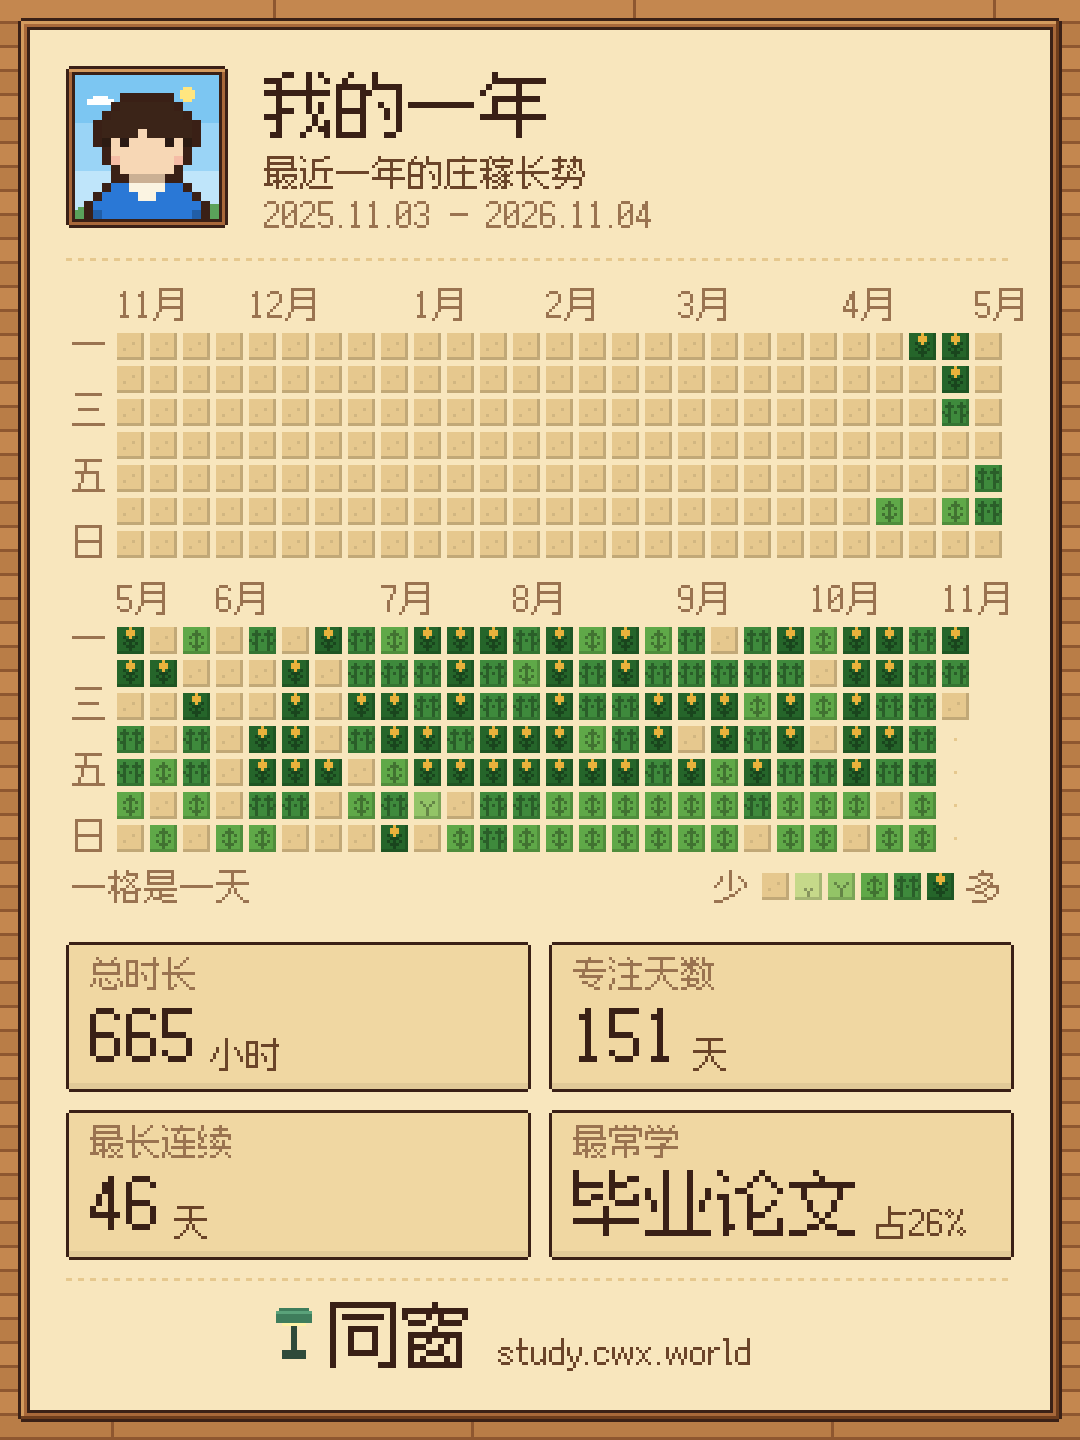
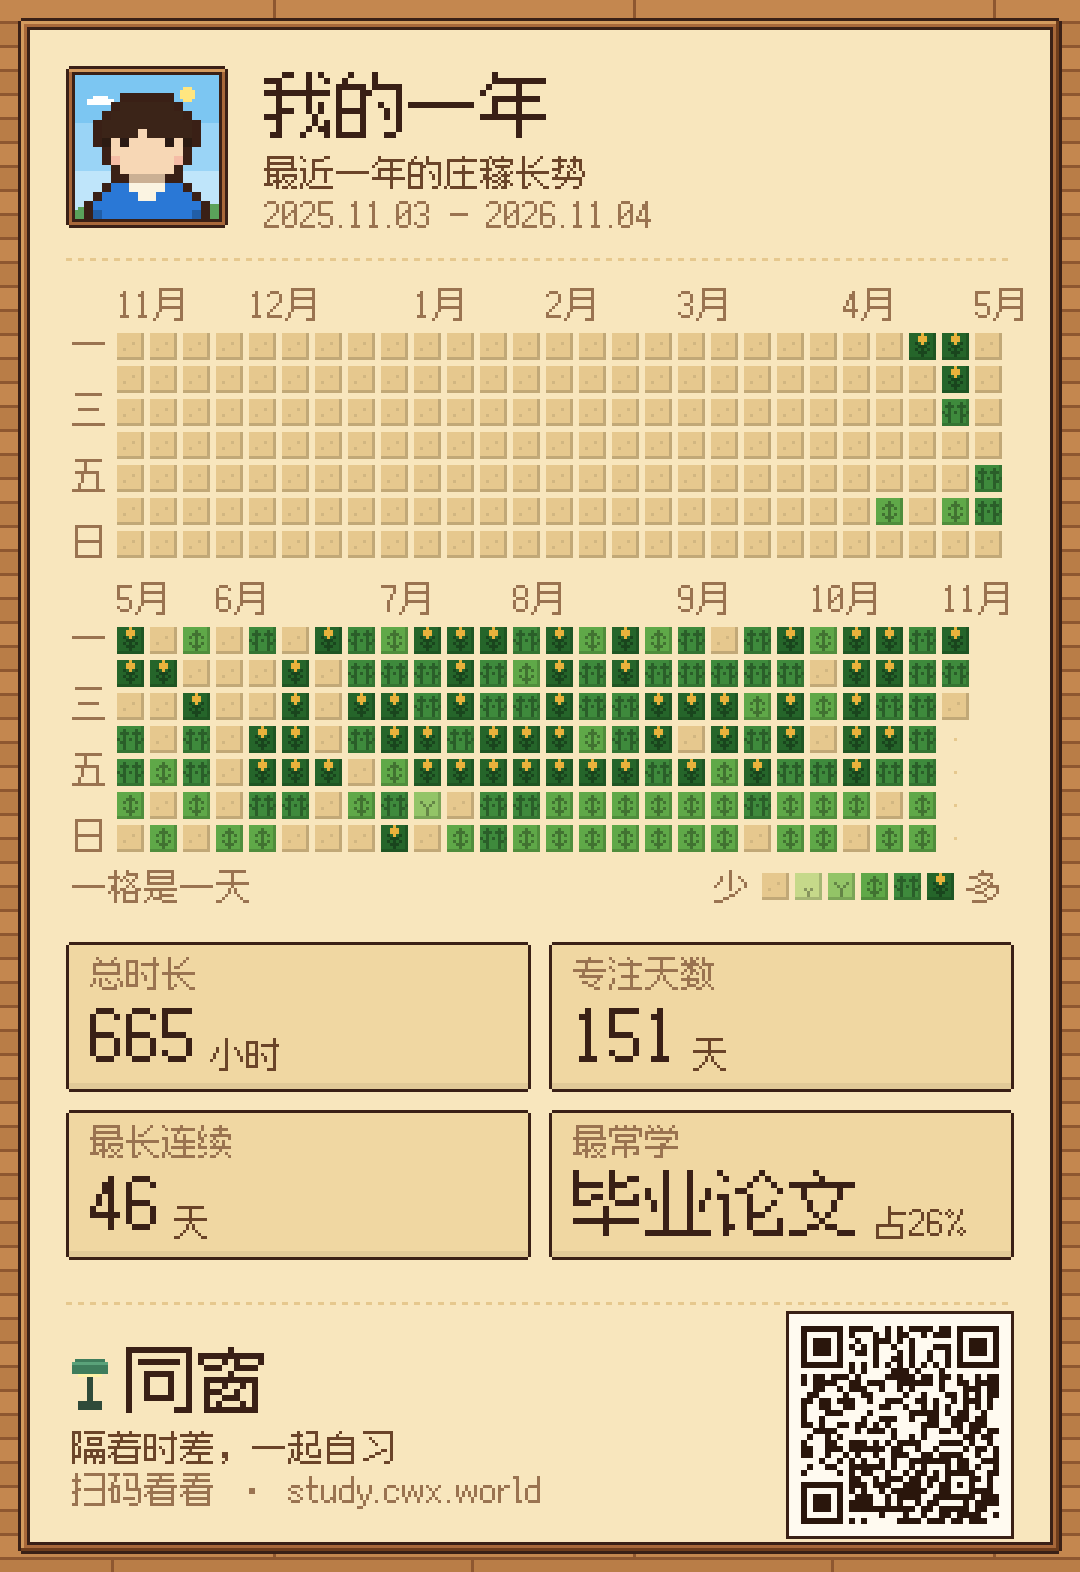
R-022 分享图公用底部条与二维码
- 新增 lib/shareKit.ts：调色板、硬边像素字、木框、天空、logo、renderPixelPng，以及带二维码的 drawShareFooter
- 二维码指向 study.cwx.world/release?from=<来源>，深色码浅色底、每模块 2 像素（导出后 6 像素），缩到一半宽仍能识别
- 一年热力图分享图改用公用底部条
- 依赖：qrcode-generator 2.0.4（MIT）

Claude-Session: https://claude.ai/code/session_01XAwhtzSpAW6CvCXUzTFnq7

diff --git a/lib/shareKit.ts b/lib/shareKit.ts
@@ -1,0 +1,207 @@
+/**
+ * 分享图公用的画法（R-011 / R-020 / R-021 / R-022）：调色板、硬边像素字、木框、小块、天空、台灯 logo、
+ * 带二维码的底部条，以及“小画布画好 → 整数倍放大 → PNG”。
+ * Everything is drawn at a small native resolution, text included (binarised so no anti-aliasing
+ * survives), then scaled up by a whole number so every pixel stays sharp.
+ */
+import qrcode from "qrcode-generator";
+import { shade } from "./pixel";
+
+export type CardTheme = "light" | "dark";
+
+/* ─────────── palettes (mirror the tokens in app/globals.css) ─────────── */
+export const PAL = {
+  light: {
+    floorA: "#c4874f", floorB: "#b97d47", seam: "#8e5730",
+    panel: "#f8e6bd", panel2: "#f0d7a2", slot: "#e6c88e",
+    ink: "#3a2016", ink2: "#6b4429", ink3: "#9a7350",
+    wood: "#a8683a", woodHi: "#d39a5e", woodDk: "#6e3d1d", edge: "#3a2016", onWood: "#fff1d2",
+    q: ["#e6c88e", "#c6d98a", "#93c467", "#5fa848", "#3e8a3c", "#25652a"],
+    sprout: -0.32, grain: "#e9b23c",
+    sky: ["#7cc6f2", "#9ad4f6", "#bfe5fa"], hill: "#5aa25a", night: false,
+  },
+  dark: {
+    floorA: "#2b1d14", floorB: "#261a11", seam: "#1a110b",
+    panel: "#33261c", panel2: "#3d2e22", slot: "#4a3828",
+    ink: "#f6e7c8", ink2: "#d8bf96", ink3: "#a8885f",
+    wood: "#5e3a20", woodHi: "#8a5a34", woodDk: "#2a1a10", edge: "#120b07", onWood: "#ffeccc",
+    q: ["#4a3828", "#3c5a2c", "#4f7a35", "#64983f", "#84b852", "#b5d97a"],
+    sprout: 0.3, grain: "#f5c75a",
+    sky: ["#0f1533", "#172049", "#202c61"], hill: "#18304a", night: true,
+  },
+};
+export type Pal = (typeof PAL)["light"];
+
+/* ─────────── pixel text ─────────── */
+export const FAMILY = '"Fusion Pixel 12px Proportional Simplified Chinese"';
+export const FONT = `12px ${FAMILY}, "Zpix", monospace`;
+
+/** make sure the unicode-range slices for every glyph on the card are loaded before drawing */
+export async function ensureCardFont(text: string) {
+  const fonts = typeof document !== "undefined" ? document.fonts : undefined;
+  if (!fonts) return;
+  try {
+    await fonts.load(`12px ${FAMILY}`, text);
+    await fonts.ready;
+  } catch { /* fall back to whatever is available */ }
+}
+
+let measurer: CanvasRenderingContext2D | null = null;
+/** call after fonts finish loading so widths are measured with the real font */
+export function resetMeasure() { measurer = null; }
+function mctx() {
+  if (!measurer) { measurer = document.createElement("canvas").getContext("2d")!; measurer.font = FONT; }
+  return measurer;
+}
+export const textW = (t: string) => Math.ceil(mctx().measureText(t).width);
+
+/** draws 12px text whose top-left is (x, y), thresholded to hard pixels, scaled by s; returns the width */
+export function text(ctx: CanvasRenderingContext2D, t: string, x: number, y: number, color: string, s = 1) {
+  if (!t) return 0;
+  const w = textW(t) + 2, h = 16;
+  const c = document.createElement("canvas");
+  c.width = w; c.height = h;
+  const g = c.getContext("2d")!;
+  g.font = FONT; g.textBaseline = "alphabetic"; g.fillStyle = "#000";
+  g.fillText(t, 0, 10);
+  const a = g.getImageData(0, 0, w, h).data;
+  ctx.fillStyle = color;
+  // glyph cell: 12px tall with the baseline at 10
+  for (let py = 0; py < h; py++) for (let px = 0; px < w; px++) {
+    if (a[(py * w + px) * 4 + 3] >= 110) ctx.fillRect(x + px * s, y + py * s, s, s);
+  }
+  return (w - 2) * s;
+}
+/** shorten to fit maxW (at scale s), adding … */
+export function fit(t: string, maxW: number, s = 1) {
+  if (textW(t) * s <= maxW) return t;
+  let out = t;
+  while (out.length > 1 && textW(out + "…") * s > maxW) out = out.slice(0, -1);
+  return out + "…";
+}
+
+/* ─────────── primitives ─────────── */
+export function rect(ctx: CanvasRenderingContext2D, x: number, y: number, w: number, h: number, c: string) { ctx.fillStyle = c; ctx.fillRect(x, y, w, h); }
+
+/** pixel frame like the app's cards: notched outline, bevelled wood rim, parchment fill */
+export function woodFrame(ctx: CanvasRenderingContext2D, x: number, y: number, w: number, h: number, p: Pal) {
+  rect(ctx, x + 1, y, w - 2, h, p.edge); rect(ctx, x, y + 1, w, h - 2, p.edge);
+  rect(ctx, x + 1, y + 1, w - 2, h - 2, p.wood);
+  rect(ctx, x + 1, y + 1, w - 2, 1, p.woodHi); rect(ctx, x + 1, y + 1, 1, h - 2, p.woodHi);
+  rect(ctx, x + 1, y + h - 2, w - 2, 1, p.woodDk); rect(ctx, x + w - 2, y + 1, 1, h - 2, p.woodDk);
+  rect(ctx, x + 3, y + 3, w - 6, h - 6, p.edge);
+}
+/** a small inset tile with notched corners */
+export function tile(ctx: CanvasRenderingContext2D, x: number, y: number, w: number, h: number, p: Pal) {
+  rect(ctx, x + 1, y, w - 2, h, p.edge); rect(ctx, x, y + 1, w, h - 2, p.edge);
+  rect(ctx, x + 1, y + 1, w - 2, h - 2, p.panel2);
+  rect(ctx, x + 1, y + h - 3, w - 2, 2, shade(p.panel2, p.night ? -0.25 : -0.06));
+}
+/** a wooden name tag (like the card headings in the app) */
+export function tag(ctx: CanvasRenderingContext2D, t: string, x: number, y: number, p: Pal) {
+  const w = textW(t) + 12, h = 16;
+  rect(ctx, x + 1, y, w - 2, h, p.edge); rect(ctx, x, y + 1, w, h - 2, p.edge);
+  rect(ctx, x + 1, y + 1, w - 2, h - 2, p.wood); rect(ctx, x + 1, y + 1, w - 2, 1, p.woodHi);
+  text(ctx, t, x + 6, y + 2, p.onWood);
+  return w;
+}
+
+export function sky(ctx: CanvasRenderingContext2D, x: number, y: number, w: number, h: number, p: Pal) {
+  const bh = Math.ceil(h / 3);
+  p.sky.forEach((c, i) => rect(ctx, x, y + i * bh, w, Math.min(bh, h - i * bh), c));
+  if (p.night) {
+    [[6, 5], [30, 3], [40, 12], [14, 15], [24, 9]].forEach(([sx, sy]) => rect(ctx, x + sx, y + sy, 1, 1, "#c9d3ff"));
+    rect(ctx, x + w - 12, y + 4, 4, 1, "#f6f0c8"); rect(ctx, x + w - 13, y + 5, 5, 3, "#f6f0c8"); rect(ctx, x + w - 12, y + 8, 4, 1, "#f6f0c8");
+    rect(ctx, x + w - 11, y + 5, 3, 3, p.sky[0]);
+  } else {
+    const sx = x + w - 13, sy = y + 4;
+    rect(ctx, sx + 1, sy, 3, 5, "#ffe680"); rect(ctx, sx, sy + 1, 5, 3, "#ffe680");
+    rect(ctx, x + 4, y + 8, 9, 2, "#ffffff"); rect(ctx, x + 6, y + 7, 5, 1, "#ffffff");
+  }
+  for (let i = 0; i < w; i++) {
+    const hh = 3 + Math.round(Math.sin(i / 3.2) * 1.5 + Math.sin(i / 7) * 1.5);
+    rect(ctx, x + i, y + h - hh, 1, hh, p.hill);
+  }
+}
+
+/** a tiny desk lamp, the app's mark */
+export function logo(ctx: CanvasRenderingContext2D, x: number, y: number, p: Pal) {
+  const shadeC = "#3f7d5c";
+  rect(ctx, x + 1, y, 10, 1, shadeC); rect(ctx, x, y + 1, 12, 4, shadeC); rect(ctx, x, y + 1, 12, 1, "#5aa27a");
+  rect(ctx, x + 2, y + 5, 8, 1, "#fff2a8");
+  rect(ctx, x + 5, y + 6, 2, 8, p.night ? "#5aa27a" : "#2f4a3a");
+  rect(ctx, x + 2, y + 14, 8, 3, p.night ? "#5aa27a" : "#2f4a3a");
+}
+
+/* ─────────── R-022: shared footer with a QR code to the product page ─────────── */
+
+/** where every share image points: the product page, tagged with which image brought the visitor */
+export const shareUrl = (from: string) => `https://study.cwx.world/release?from=${encodeURIComponent(from)}`;
+
+/** QR modules for `data` (true = dark), error correction M */
+export function qrMatrix(data: string): boolean[][] {
+  const q = qrcode(0, "M");
+  q.addData(data);
+  q.make();
+  const n = q.getModuleCount();
+  return Array.from({ length: n }, (_, r) => Array.from({ length: n }, (_, c) => q.isDark(r, c)));
+}
+
+/**
+ * draw a scannable QR code: dark modules on a light card, `quiet` modules of margin, `m` px per module.
+ * Always dark-on-light, also on the night theme — many phone scanners refuse inverted codes.
+ * returns the drawn size in px
+ */
+export function drawQr(ctx: CanvasRenderingContext2D, data: string, x: number, y: number, m = 1, quiet = 3) {
+  const mat = qrMatrix(data);
+  const size = (mat.length + quiet * 2) * m;
+  rect(ctx, x, y, size, size, "#fffaf0");
+  ctx.fillStyle = "#2a160c";
+  mat.forEach((row, r) => row.forEach((d, c) => { if (d) ctx.fillRect(x + (quiet + c) * m, y + (quiet + r) * m, m, m); }));
+  return size;
+}
+
+/** height of the shared footer at native resolution */
+export const FOOTER_H = 76;
+
+/**
+ * the footer every share image ends with: dotted rule, lamp logo, “同窗”, a one-line pitch, the site,
+ * and a QR code (right) that opens study.cwx.world/release?from=<from>.
+ * (x, y) is the top-left of the footer band, w its width. Characters used: see FOOTER_TEXT.
+ */
+export function drawShareFooter(ctx: CanvasRenderingContext2D, x: number, y: number, w: number, p: Pal, from: string) {
+  for (let i = x; i < x + w; i += 4) rect(ctx, i, y, 2, 1, p.slot);
+  const qx = x + w - 1, qy = y + 4;
+  // QR: 2 px per module at native size → 6 px per module in the ×3 export, so it still scans when the
+  // picture is shown small (a chat thumbnail, another phone's screen)
+  const mat = qrMatrix(shareUrl(from));
+  const qs = (mat.length + 4) * 2;
+  const qLeft = qx - qs;
+  rect(ctx, qLeft - 1, qy - 1, qs + 2, qs + 2, p.edge);
+  drawQr(ctx, shareUrl(from), qLeft, qy, 2, 2);
+  // brand block, vertically centred on the code
+  const cy = qy + Math.round(qs / 2);
+  logo(ctx, x + 2, cy - 22, p);
+  text(ctx, "同窗", x + 20, cy - 26, p.ink, 2);
+  text(ctx, "隔着时差，一起自习", x + 2, cy + 2, p.ink2);
+  text(ctx, "扫码看看 · study.cwx.world", x + 2, cy + 16, p.ink3);
+}
+/** glyphs the footer needs (pass to ensureCardFont together with the card's own text) */
+export const FOOTER_TEXT = "同窗隔着时差，一起自习扫码看看 · study.cwx.world";
+
+/** draw at native size with `draw`, then scale up by `scale` into a PNG (blob + data URL) */
+export async function renderPixelPng(w: number, h: number, scale: number, glyphs: string, draw: (ctx: CanvasRenderingContext2D) => void): Promise<{ blob: Blob; url: string }> {
+  await ensureCardFont(glyphs + FOOTER_TEXT);
+  resetMeasure();
+  const base = document.createElement("canvas");
+  base.width = w; base.height = h;
+  draw(base.getContext("2d")!);
+  const out = document.createElement("canvas");
+  out.width = w * scale; out.height = h * scale;
+  const o = out.getContext("2d")!;
+  o.imageSmoothingEnabled = false;
+  o.drawImage(base, 0, 0, out.width, out.height);
+  const url = out.toDataURL("image/png");
+  const blob = await new Promise<Blob>((res, rej) => out.toBlob((b) => (b ? res(b) : rej(new Error("toBlob failed"))), "image/png"));
+  return { blob, url };
+}

diff --git a/lib/shareCard.ts b/lib/shareCard.ts
@@ -7,13 +7,14 @@ import type { Session, Subject } from "./types";
 import { byDay, streaks, subjectTotals, touching, yearGrid } from "./stats";
 import { HOUR } from "./time";
 import { drawGrid, portrait, shade, type AvatarLook, type Grid } from "./pixel";
+import { drawShareFooter, FOOTER_H, PAL, renderPixelPng, sky, text, textW, fit, rect, tile, woodFrame, type CardTheme, type Pal } from "./shareKit";
+export type { CardTheme } from "./shareKit";
 
 export const CARD_W = 360;
-export const CARD_H = 480;
+export const CARD_H = 524;
 /** 360 x 3 = 1080 px wide output */
 export const CARD_SCALE = 3;
 
-export type CardTheme = "light" | "dark";
 type Cell = { key: string; ms: number; future: boolean };
 
 export interface ShareData {
@@ -48,104 +49,9 @@ export function shareData(o: { sessions: Session[]; subjects: Subject[]; tz: str
   };
 }
 
-/* ─────────── palettes (mirror the tokens in app/globals.css) ─────────── */
-const PAL = {
-  light: {
-    floorA: "#c4874f", floorB: "#b97d47", seam: "#8e5730",
-    panel: "#f8e6bd", panel2: "#f0d7a2", slot: "#e6c88e",
-    ink: "#3a2016", ink2: "#6b4429", ink3: "#9a7350",
-    wood: "#a8683a", woodHi: "#d39a5e", woodDk: "#6e3d1d", edge: "#3a2016", onWood: "#fff1d2",
-    q: ["#e6c88e", "#c6d98a", "#93c467", "#5fa848", "#3e8a3c", "#25652a"],
-    sprout: -0.32, grain: "#e9b23c",
-    sky: ["#7cc6f2", "#9ad4f6", "#bfe5fa"], hill: "#5aa25a", night: false,
-  },
-  dark: {
-    floorA: "#2b1d14", floorB: "#261a11", seam: "#1a110b",
-    panel: "#33261c", panel2: "#3d2e22", slot: "#4a3828",
-    ink: "#f6e7c8", ink2: "#d8bf96", ink3: "#a8885f",
-    wood: "#5e3a20", woodHi: "#8a5a34", woodDk: "#2a1a10", edge: "#120b07", onWood: "#ffeccc",
-    q: ["#4a3828", "#3c5a2c", "#4f7a35", "#64983f", "#84b852", "#b5d97a"],
-    sprout: 0.3, grain: "#f5c75a",
-    sky: ["#0f1533", "#172049", "#202c61"], hill: "#18304a", night: true,
-  },
-};
-type Pal = (typeof PAL)["light"];
-
 /** same thresholds as the heatmap on the stats page: 30 min / 1.5 h / 3 h / 5 h */
 const LEVELS = [0, 0.5 * HOUR, 1.5 * HOUR, 3 * HOUR, 5 * HOUR];
 const level = (ms: number) => (ms <= 0 ? 0 : LEVELS.filter((l) => ms >= l).length);
-
-/* ─────────── pixel text ─────────── */
-const FAMILY = '"Fusion Pixel 12px Proportional Simplified Chinese"';
-const FONT = `12px ${FAMILY}, "Zpix", monospace`;
-
-/** make sure the unicode-range slices for every glyph on the card are loaded before drawing */
-export async function ensureCardFont(text: string) {
-  const fonts = typeof document !== "undefined" ? document.fonts : undefined;
-  if (!fonts) return;
-  try {
-    await fonts.load(`12px ${FAMILY}`, text);
-    await fonts.ready;
-  } catch { /* fall back to whatever is available */ }
-}
-
-let measurer: CanvasRenderingContext2D | null = null;
-function mctx() {
-  if (!measurer) { measurer = document.createElement("canvas").getContext("2d")!; measurer.font = FONT; }
-  return measurer;
-}
-export const textW = (t: string) => Math.ceil(mctx().measureText(t).width);
-
-/** draws 12px text whose top-left is (x, y), thresholded to hard pixels, scaled by s; returns the width */
-function text(ctx: CanvasRenderingContext2D, t: string, x: number, y: number, color: string, s = 1) {
-  if (!t) return 0;
-  const w = textW(t) + 2, h = 16;
-  const c = document.createElement("canvas");
-  c.width = w; c.height = h;
-  const g = c.getContext("2d")!;
-  g.font = FONT; g.textBaseline = "alphabetic"; g.fillStyle = "#000";
-  g.fillText(t, 0, 10);
-  const a = g.getImageData(0, 0, w, h).data;
-  ctx.fillStyle = color;
-  // glyph cell: 12px tall with the baseline at 10
-  for (let py = 0; py < h; py++) for (let px = 0; px < w; px++) {
-    if (a[(py * w + px) * 4 + 3] >= 110) ctx.fillRect(x + px * s, y + py * s, s, s);
-  }
-  return (w - 2) * s;
-}
-/** shorten to fit maxW (at scale s), adding … */
-function fit(t: string, maxW: number, s = 1) {
-  if (textW(t) * s <= maxW) return t;
-  let out = t;
-  while (out.length > 1 && textW(out + "…") * s > maxW) out = out.slice(0, -1);
-  return out + "…";
-}
-
-/* ─────────── primitives ─────────── */
-function rect(ctx: CanvasRenderingContext2D, x: number, y: number, w: number, h: number, c: string) { ctx.fillStyle = c; ctx.fillRect(x, y, w, h); }
-
-/** pixel frame like the app's cards: notched outline, bevelled wood rim, parchment fill */
-function woodFrame(ctx: CanvasRenderingContext2D, x: number, y: number, w: number, h: number, p: Pal) {
-  rect(ctx, x + 1, y, w - 2, h, p.edge); rect(ctx, x, y + 1, w, h - 2, p.edge);
-  rect(ctx, x + 1, y + 1, w - 2, h - 2, p.wood);
-  rect(ctx, x + 1, y + 1, w - 2, 1, p.woodHi); rect(ctx, x + 1, y + 1, 1, h - 2, p.woodHi);
-  rect(ctx, x + 1, y + h - 2, w - 2, 1, p.woodDk); rect(ctx, x + w - 2, y + 1, 1, h - 2, p.woodDk);
-  rect(ctx, x + 3, y + 3, w - 6, h - 6, p.edge);
-}
-/** a small inset tile with notched corners */
-function tile(ctx: CanvasRenderingContext2D, x: number, y: number, w: number, h: number, p: Pal) {
-  rect(ctx, x + 1, y, w - 2, h, p.edge); rect(ctx, x, y + 1, w, h - 2, p.edge);
-  rect(ctx, x + 1, y + 1, w - 2, h - 2, p.panel2);
-  rect(ctx, x + 1, y + h - 3, w - 2, 2, shade(p.panel2, p.night ? -0.25 : -0.06));
-}
-/** a wooden name tag (like the card headings in the app) */
-function tag(ctx: CanvasRenderingContext2D, t: string, x: number, y: number, p: Pal) {
-  const w = textW(t) + 12, h = 16;
-  rect(ctx, x + 1, y, w - 2, h, p.edge); rect(ctx, x, y + 1, w, h - 2, p.edge);
-  rect(ctx, x + 1, y + 1, w - 2, h - 2, p.wood); rect(ctx, x + 1, y + 1, w - 2, 1, p.woodHi);
-  text(ctx, t, x + 6, y + 2, p.onWood);
-  return w;
-}
 
 /* crops growing in a heatmap cell, one sprite per level (9 x 9 cell) */
 const CROPS: string[][] = [
@@ -192,24 +98,6 @@ function heatBlock(ctx: CanvasRenderingContext2D, cols: Cell[][], allCols: Cell[
     if (d.future) { rect(ctx, cx + 4, cy + 4, 1, 1, p.slot); return; }
     cell(ctx, cx, cy, level(d.ms), p);
   }));
-}
-
-function sky(ctx: CanvasRenderingContext2D, x: number, y: number, w: number, h: number, p: Pal) {
-  const bh = Math.ceil(h / 3);
-  p.sky.forEach((c, i) => rect(ctx, x, y + i * bh, w, Math.min(bh, h - i * bh), c));
-  if (p.night) {
-    [[6, 5], [30, 3], [40, 12], [14, 15], [24, 9]].forEach(([sx, sy]) => rect(ctx, x + sx, y + sy, 1, 1, "#c9d3ff"));
-    rect(ctx, x + w - 12, y + 4, 4, 1, "#f6f0c8"); rect(ctx, x + w - 13, y + 5, 5, 3, "#f6f0c8"); rect(ctx, x + w - 12, y + 8, 4, 1, "#f6f0c8");
-    rect(ctx, x + w - 11, y + 5, 3, 3, p.sky[0]);
-  } else {
-    const sx = x + w - 13, sy = y + 4;
-    rect(ctx, sx + 1, sy, 3, 5, "#ffe680"); rect(ctx, sx, sy + 1, 5, 3, "#ffe680");
-    rect(ctx, x + 4, y + 8, 9, 2, "#ffffff"); rect(ctx, x + 6, y + 7, 5, 1, "#ffffff");
-  }
-  for (let i = 0; i < w; i++) {
-    const hh = 3 + Math.round(Math.sin(i / 3.2) * 1.5 + Math.sin(i / 7) * 1.5);
-    rect(ctx, x + i, y + h - hh, 1, hh, p.hill);
-  }
 }
 
 function fmtDate(k: string) { return k.replace(/-/g, "."); }
@@ -293,39 +181,11 @@ export function drawCard(ctx: CanvasRenderingContext2D, d: ShareData, theme: Car
     if (t.u) text(ctx, t.u, x + 8 + vw + 4, y + 32, p.ink2);
   });
 
-  // footer: a row of crops and the site
-  const fy = 432;
-  for (let x = 22; x < W - 22; x += 4) rect(ctx, x, fy - 6, 2, 1, p.slot);
-  const brand = "同窗", site = "study.cwx.world";
-  const bw = textW(brand) * 2, sw = textW(site);
-  const bx = Math.round((W - (bw + 8 + sw)) / 2);
-  logo(ctx, bx - 18, fy + 4, p);
-  text(ctx, brand, bx, fy + 2, p.ink, 2);
-  text(ctx, site, bx + bw + 8, fy + 13, p.ink2);
-}
-
-/** a tiny desk lamp, the app's mark */
-function logo(ctx: CanvasRenderingContext2D, x: number, y: number, p: Pal) {
-  const shadeC = "#3f7d5c";
-  rect(ctx, x + 1, y, 10, 1, shadeC); rect(ctx, x, y + 1, 12, 4, shadeC); rect(ctx, x, y + 1, 12, 1, "#5aa27a");
-  rect(ctx, x + 2, y + 5, 8, 1, "#fff2a8");
-  rect(ctx, x + 5, y + 6, 2, 8, p.night ? "#5aa27a" : "#2f4a3a");
-  rect(ctx, x + 2, y + 14, 8, 3, p.night ? "#5aa27a" : "#2f4a3a");
+  // R-022: shared footer with the QR code to the product page
+  drawShareFooter(ctx, 22, H - 14 - FOOTER_H, W - 44, p, "share-year");
 }
 
 /** render the full-size PNG */
 export async function renderCard(d: ShareData, theme: CardTheme, scale = CARD_SCALE): Promise<{ blob: Blob; url: string }> {
-  await ensureCardFont(cardText(d));
-  measurer = null; // re-measure with the loaded font
-  const base = document.createElement("canvas");
-  base.width = CARD_W; base.height = CARD_H;
-  drawCard(base.getContext("2d")!, d, theme);
-  const out = document.createElement("canvas");
-  out.width = CARD_W * scale; out.height = CARD_H * scale;
-  const o = out.getContext("2d")!;
-  o.imageSmoothingEnabled = false;
-  o.drawImage(base, 0, 0, out.width, out.height);
-  const url = out.toDataURL("image/png");
-  const blob = await new Promise<Blob>((res, rej) => out.toBlob((b) => (b ? res(b) : rej(new Error("toBlob failed"))), "image/png"));
-  return { blob, url };
+  return renderPixelPng(CARD_W, CARD_H, scale, cardText(d), (ctx) => drawCard(ctx, d, theme));
 }
